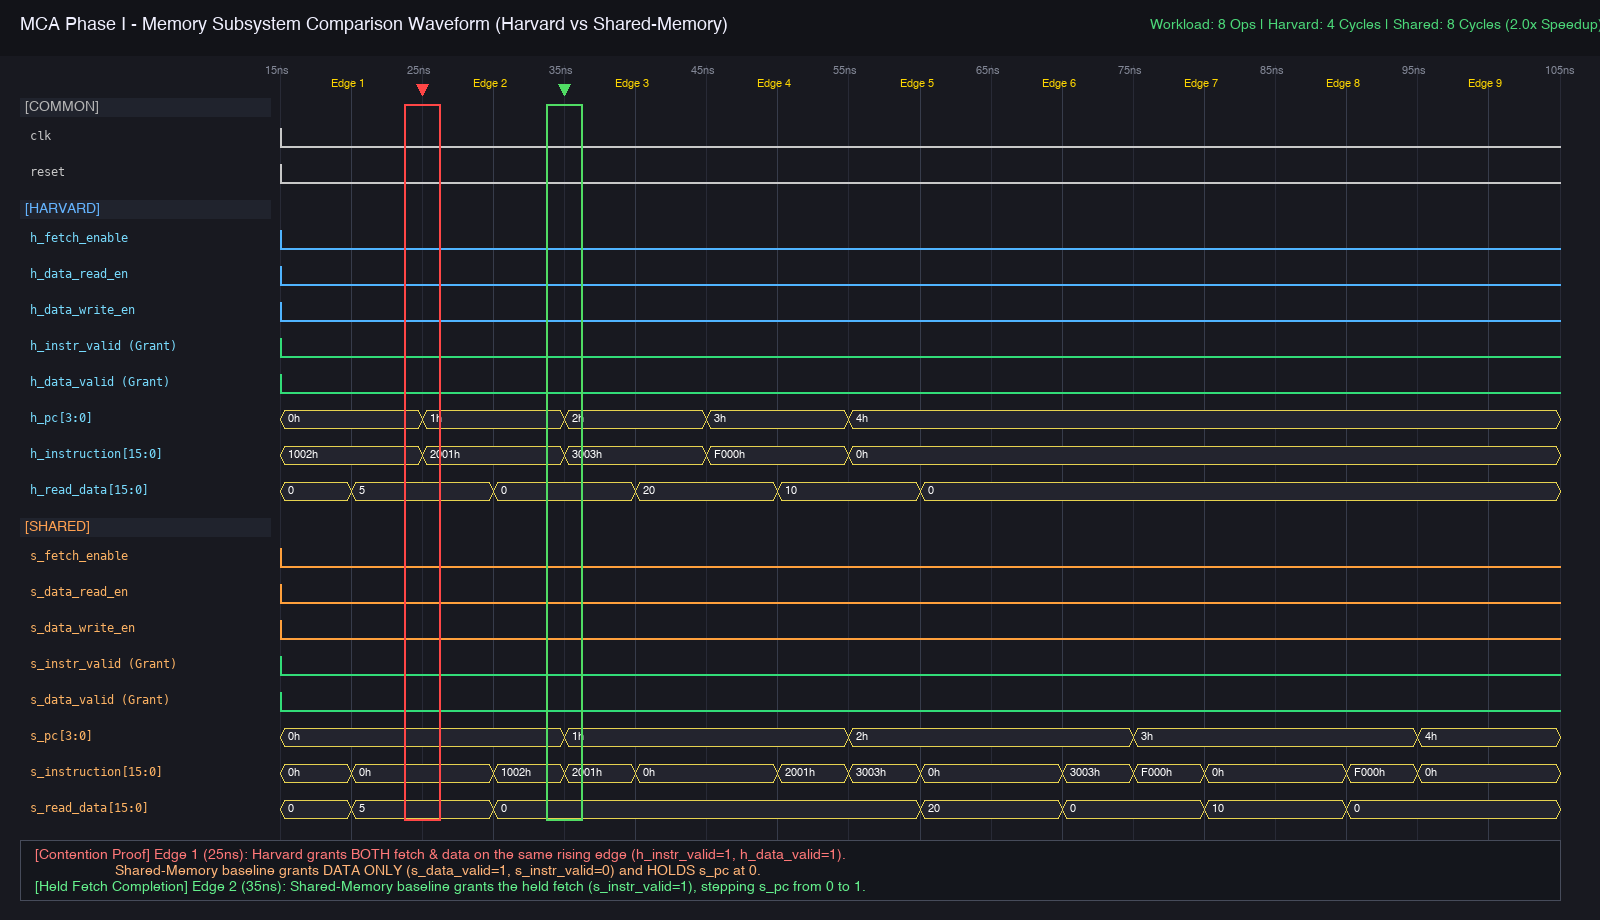
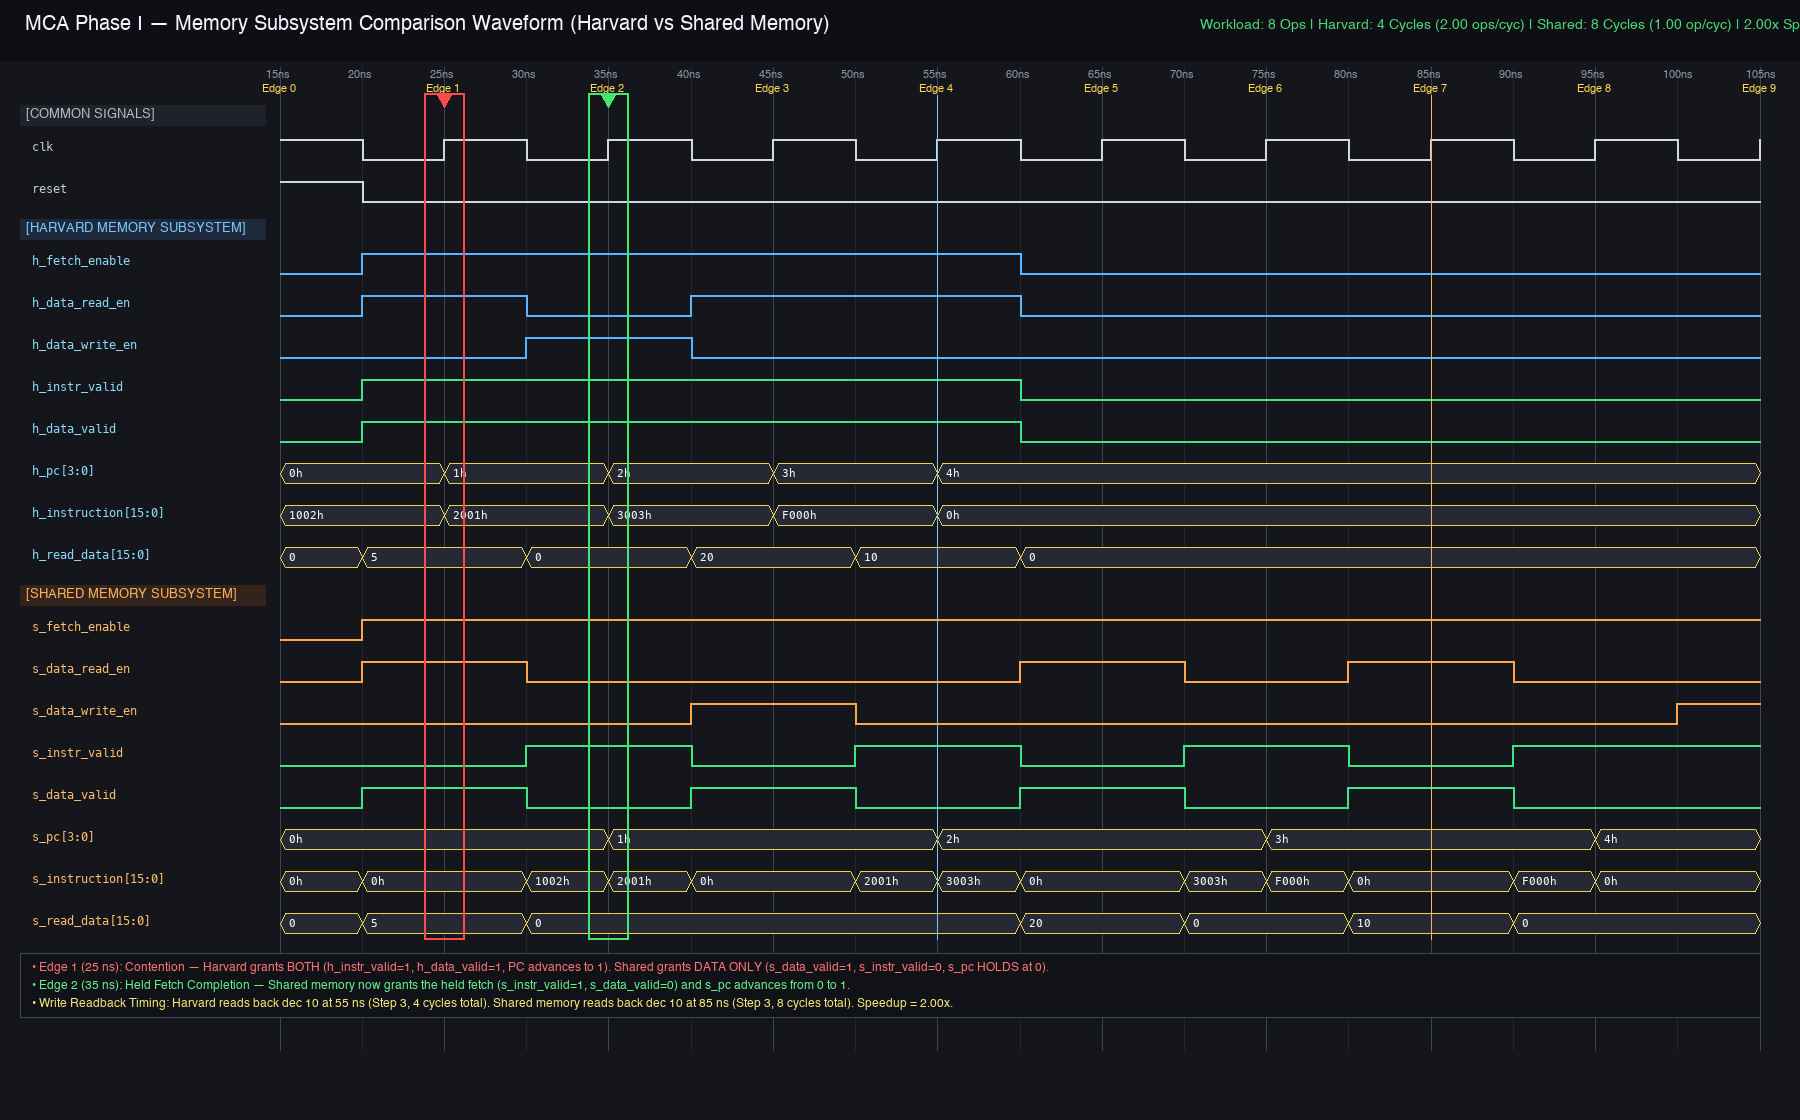
Refresh comparison waveform and complete synthesis results

diff --git a/docs/comparison.md b/docs/comparison.md
@@ -2,15 +2,15 @@
 
 ## 1. Overview and Architecture Comparison
 
-This report evaluates and compares the throughput and execution behavior of two memory subsystem architectures under an identical benchmark workload:
-1. **Harvard Subsystem (`harvard_top`):** Employs isolated instruction ROM (16×16) and data RAM (16×16) address spaces, buses, and ports. This permits simultaneous instruction fetching and data read/write operations on the exact same clock cycle.
+This report evaluates and compares the memory-access throughput and execution behavior of two memory subsystem architectures under an identical benchmark workload:
+1. **Harvard Subsystem (`harvard_top`):** Employs isolated instruction ROM (16×16) and data RAM (16×16) address spaces, buses, and ports. This permits simultaneous instruction fetching and data read/write operations on the exact same clock cycle without structural hazards.
 2. **Shared-Memory Baseline (`shared_memory`):** Implements a unified 32×16 memory array with a single physical read port and single write port. Physical words `0–15` map to instruction storage, while words `16–31` map to data storage. A central arbiter prioritizes legal data transactions over instruction fetches. When a data access is granted, the program counter holds and the instruction fetch remains pending until the next available cycle.
 
 ---
 
 ## 2. Benchmark Workload
 
-Both designs are subjected to the standardized 4-step sequence from the Phase I interface specification:
+Both designs are subjected to the standardized 4-pair request sequence from the Phase I interface specification:
 
 | Step / Row | Fetch PC | ROM Instruction | Data Operation | Data Address | Write Data | Expected Read Data |
 | :---: | :---: | :---: | :---: | :---: | :---: | :---: |
@@ -21,13 +21,17 @@ Both designs are subjected to the standardized 4-step sequence from the Phase I 
 
 ---
 
-## 3. Measured Cycle Counts and Throughput
+## 3. Measured Cycle Counts and Memory-Access Throughput
 
 The testbench (`testbench/tb_comparison.v`) drives both devices under test (DUTs) independently with separate row counters and request pending flags. Cycles are counted strictly from the first active request rising edge to the final grant edge, excluding reset and test initialization.
 
-### Verified Simulation Results
+### Verified Simulation Results (`make -B test-comparison`)
 
 ```text
+mkdir -p build
+iverilog -g2005 -Wall -s tb_comparison -o build/tb_comparison rtl/program_counter.v rtl/instruction_memory.v rtl/data_path.v rtl/address_decoder.v rtl/read_write_control.v rtl/data_memory.v rtl/harvard_top.v rtl/shared_memory.v testbench/tb_comparison.v
+vvp build/tb_comparison
+VCD info: dumpfile build/comparison.vcd opened for output.
 ------------------------------------------------------------
 Workload Complete
 Harvard DUT:       Cycles = 4, Grants = 8, Ops/Cycle = 2.00
@@ -37,15 +41,15 @@ Speedup Ratio:     2.00x
 PASS: All comparison checks and corner-case tests passed successfully!
 ```
 
-### Quantitative Metrics Table
+### Quantitative Metrics for the Four-Pair Workload
 
 | Metric | Harvard Subsystem | Shared-Memory Baseline | Architectural Advantage |
 | :--- | :---: | :---: | :---: |
 | **Total Accepted Operations** | 8 (4 fetch + 4 data) | 8 (4 fetch + 4 data) | Identical Workload |
 | **Elapsed Execution Cycles** | **4 cycles** | **8 cycles** | 50% fewer cycles |
-| **Throughput (Operations / Cycle)** | **2.00 ops/cycle** | **1.00 op/cycle** | 2.00× higher throughput |
-| **Speedup Ratio** | **2.00×** | **1.00×** | **2.00× speedup** |
-| **Arbitration Stalls** | 0 stalls | 4 stalls (1 stall per row) | Zero structural hazard |
+| **Memory-Access Throughput** | **2.00 ops/cycle** | **1.00 op/cycle** | **2.00× higher throughput** |
+| **Throughput Speedup Ratio** | **2.00×** | **1.00×** | **2.00× speedup** |
+| **Arbitration Stalls** | 0 stalls | 4 stalls (1 stall per pair) | Zero structural hazard |
 
 ---
 
@@ -57,29 +61,28 @@ The verified comparison waveform is committed at [docs/comparison-waveform.png](
 
 ### Key Clock Edges Identified in the Waveform:
 
-1. **Edge 1 ($t = 25\,\text{ns}$ — Contested Request Edge):**
-   - **Harvard Subsystem:** Both `h_instruction_valid` (fetch grant) and `h_data_valid` (data grant) are asserted simultaneously at the rising clock edge. Instruction `1002h` is fetched while RAM word 2 returns decimal `5`. The Program Counter increments from `0` to `1` on this edge.
-   - **Shared-Memory Baseline:** Structural contention occurs at the single shared port. The arbiter gives strict priority to the legal data read. Consequently:
-     - `s_data_valid = 1`, returning decimal `5`.
-     - `s_instruction_valid = 0`, suppressing the instruction fetch grant.
-     - `s_pc` strictly **holds at 0** across the clock edge (`s_fetch_pending` remains high).
+1. **Edge 1 ($t = 25\,\text{ns}$ — Contested Request Rising Edge):**
+   - **Harvard Subsystem:** Both `h_instruction_valid = 1` and `h_data_valid = 1` are settled high before the rising edge. Instruction `1002h` is fetched combinationally while RAM word 2 returns decimal `5`. At the $25\,\text{ns}$ rising edge, both transactions commit, and `h_pc` advances from `0` to `1`.
+   - **Shared-Memory Baseline:** Structural contention occurs at the single shared port. The arbiter gives strict priority to the legal data read:
+     - Just before the rising edge: `s_data_valid = 1` (returning decimal `5`), and `s_instruction_valid = 0` (fetch suppressed).
+     - At the $25\,\text{ns}$ rising edge: Data read commits, while the pending fetch remains held. Consequently, `s_pc` strictly **holds at 0** across the clock edge.
 
-2. **Edge 2 ($t = 35\,\text{ns}$ — Held Fetch Completion Edge):**
+2. **Edge 2 ($t = 35\,\text{ns}$ — Held Fetch Completion Rising Edge):**
    - **Shared-Memory Baseline:** Having completed the data operation on the preceding cycle, `s_data_read_enable` is deasserted. The single shared port is now allocated to the pending instruction fetch:
-     - `s_instruction_valid = 1`, returning instruction `1002h`.
-     - `s_data_valid = 0`.
-     - `s_pc` successfully **advances from 0 to 1** at the rising edge.
-   - This exact 2-cycle cadence repeats across all 4 steps, resulting in exactly $4 \times 2 = 8$ cycles for the baseline vs. 4 cycles for the Harvard subsystem.
+     - Just before the rising edge: `s_instruction_valid = 1` (returning instruction `1002h`), and `s_data_valid = 0`.
+     - At the $35\,\text{ns}$ rising edge: The pending fetch commits, and `s_pc` successfully **advances from 0 to 1**.
+   - This exact 2-cycle cadence repeats across all 4 request pairs, resulting in exactly $4 \times 2 = 8$ cycles for the baseline vs. 4 cycles for the Harvard subsystem.
 
-3. **Readback Verification at Step 3 ($t = 85\,\text{ns}$):**
-   - Step 1 committed a write of decimal `10` to data word 3.
-   - At Step 3 (Edge 7 for shared memory, Edge 4 for Harvard), the data read of word 3 settles to decimal `10`, confirming proper data persistence and integrity.
+3. **Write Readback Timing:**
+   - In Step 1, a write of decimal `10` is committed to data word 3.
+   - **Harvard Subsystem:** Reads back decimal `10` at **$t = 55\,\text{ns}$** (during Step 3, Cycle 4) while simultaneously fetching instruction `F000h` at PC `3`.
+   - **Shared-Memory Baseline:** Reads back decimal `10` at **$t = 85\,\text{ns}$** (during Step 3, Cycle 7) while the fetch of `F000h` is held, completing the final held fetch on the subsequent cycle at **$t = 95\,\text{ns}$** (Cycle 8).
 
 ---
 
 ## 5. Verification of Arbitration & Robustness
 
-Following the benchmark run, `tb_comparison.v` validates two critical corner cases to ensure invalid operations cannot degrade throughput or corrupt memory:
+Following the measured benchmark run, `tb_comparison.v` validates two critical corner cases to ensure invalid operations cannot degrade throughput or corrupt memory:
 1. **Invalid Data Address (e.g., Address 17, bit 4 asserted):**
    - The decoder flags address 17 as out-of-range (`s_data_valid = 0`).
    - The arbiter ensures the invalid data request **does not consume the shared memory slot**, allowing the concurrent instruction fetch to proceed unimpeded (`s_instruction_valid = 1`).
@@ -95,10 +98,21 @@ Following the benchmark run, `tb_comparison.v` validates two critical corner cas
 To re-run the simulation and regenerate the waveform:
 ```sh
 # 1. Compile and execute comparison testbench
-make test-comparison
+make -B test-comparison
 
-# 2. View generated VCD in Surfer or GTKWave
+# 2. Open generated VCD in Surfer or GTKWave
 surfer build/comparison.vcd
 # or
 gtkwave build/comparison.vcd
 ```
+
+### Manual Capture Steps in GTKWave / Surfer:
+1. Open `build/comparison.vcd` in your waveform viewer.
+2. In the signal hierarchy under `tb_comparison`, add:
+   - `clk`, `reset`
+   - Harvard group: `h_fetch_enable`, `h_data_read_enable`, `h_data_write_enable`, `h_instruction_valid`, `h_data_valid`, `h_pc[3:0]`, `h_instruction[15:0]`, `h_read_data[15:0]`
+   - Shared group: `s_fetch_enable`, `s_data_read_enable`, `s_data_write_enable`, `s_instruction_valid`, `s_data_valid`, `s_pc[3:0]`, `s_instruction[15:0]`, `s_read_data[15:0]`
+3. Zoom to the time interval $15\,\text{ns}$ to $105\,\text{ns}$.
+4. Ensure values are displayed in Hex for instructions/PC and Decimal for read data.
+5. Highlight the rising edges at $25\,\text{ns}$ (contention) and $35\,\text{ns}$ (held fetch completion).
+6. Capture the screen and save to `docs/comparison-waveform.png`.

diff --git a/synthesis/results.md b/synthesis/results.md
@@ -2,9 +2,9 @@
 
 ## Tool Environment
 
-- **Synthesis Tool:** Yosys Open SYnthesis Suite (Version 0.70+post, AppleClang `clang++ 21.0.0.21000334`)
+- **Synthesis Tool:** Yosys Open SYnthesis Suite (Version `0.70+post`, commit `0c11ea098be065e585a90a06e7b7da49936cf231`, AppleClang `clang++ 21.0.0.21000334`)
 - **Simulation Tool:** Icarus Verilog (`iverilog` version 12.0) / `vvp`
-- **Target Technology:** Generic standard cell gate-level representation (`synth -top <top_module>`)
+- **Target Technology:** Generic standard cell gate-level representation (`synth -top <top_module>; stat`)
 - **Platform:** macOS (Darwin arm64, Apple Silicon)
 
 ---
@@ -16,50 +16,70 @@
 yosys -p 'read_verilog rtl/program_counter.v rtl/shared_memory.v; synth -top shared_memory; stat'
 ```
 
-### 2. Harvard Top-Level (`harvard_top`)
-*(Note: Complete synthesis of `harvard_top` depends on Member 2's `data_path.v` and submodules merging into `main`)*
+### 2. Harvard Subsystem (`harvard_top`)
 ```sh
 yosys -p 'read_verilog rtl/program_counter.v rtl/instruction_memory.v rtl/address_decoder.v rtl/read_write_control.v rtl/data_memory.v rtl/data_path.v rtl/harvard_top.v; synth -top harvard_top; stat'
 ```
 
 ---
 
-## Resource Utilization Summary
+## Resource Utilization Comparison (Generic Yosys Cell Counts)
 
-### Shared-Memory Baseline (`shared_memory`)
+The table below presents the **hierarchy-inclusive cell totals** for both architectures synthesized under identical settings with Yosys:
 
-| Cell Type | Function / Description | Cell Count |
-| :--- | :--- | :--- |
-| `$_DFFE_PP_` | D-Type Flip-Flop with Enable (Unified 32×16 RAM array) | 512 |
-| `$_SDFFE_PP0P_` | Synchronous Reset DFF with Enable (4-bit Program Counter) | 4 |
-| **Total Sequential (DFFs)** | | **516** |
-| `$_MUX_` | Multiplexers (Address decoding & single read port selection) | 452 |
-| `$_AND_` | 2-input AND gates | 121 |
-| `$_OR_` | 2-input OR gates | 48 |
-| `$_ANDNOT_` | AND with inverted input | 34 |
-| `$_NAND_` | 2-input NAND gates | 33 |
-| `$_NOT_` | Inverters | 7 |
-| `$_XOR_` | 2-input XOR gates | 3 |
-| `$_NOR_` | 2-input NOR gates | 2 |
-| `$_XNOR_` | 2-input XNOR gates | 1 |
-| **Total Combinational Logic** | | **701** |
-| **Total Cell Count** | | **1,217** |
-
-#### Hierarchy Breakdown:
-- **`shared_memory` (Local Count):** 1,207 cells (512 DFFs for RAM array, 452 MUXes, 243 logic gates)
-- **`program_counter` (Submodule):** 10 cells (4 SDFFEs for 4-bit PC, 6 logic gates for increment and reset)
-
-### Harvard Subsystem (`harvard_top`)
-- **Status:** Pending integration of Member 2 (`feature/data-path`).
-- Expected resources:
-  - 16×16 Data RAM: ~256 DFFs
-  - 16×16 Instruction ROM: Combinational LUT ROM (~0 DFFs)
-  - 4-bit PC: 4 DFFs
-  - Dual independent address paths and dual read outputs without shared multiplexer contention.
+| Cell Type / Category | Description | Shared-Memory Baseline (`shared_memory`) | Harvard Subsystem (`harvard_top`) | Notes on Difference |
+| :--- | :--- | :---: | :---: | :--- |
+| `$_DFFE_PP_` | D-type Flip-Flop with Enable | 512 | 256 | Shared memory implements unified 32×16 RAM (512 FFs); Harvard has 16×16 RAM (256 FFs) |
+| `$_SDFFE_PP0P_` | Synchronous Reset DFF with Enable | 4 | 4 | 4-bit Program Counter (`program_counter`) |
+| **Total Sequential (DFFs)** | **Total Registers** | **516** | **260** | **Shared memory requires 2.0× more flip-flops** |
+| `$_MUX_` | Multiplexers | 452 | 241 | 32-word array read multiplexing vs 16-word RAM read multiplexing |
+| `$_AND_` | 2-input AND gates | 121 | 45 | Address decode, control qualification, write gating |
+| `$_OR_` / `$_ORNOT_` | OR gates | 48 | 2 | Request arbitration and qualification |
+| `$_ANDNOT_` | AND with inverted input | 34 | 9 | Priority suppression and gating |
+| `$_NAND_` | 2-input NAND gates | 33 | 5 | Combinational decoding |
+| `$_NOT_` | Inverters | 7 | 7 | Address bit inversion and logic inversion |
+| `$_XOR_` / `$_XNOR_` | XOR / XNOR gates | 4 | 3 | PC incrementer and control XOR |
+| `$_NOR_` | 2-input NOR gates | 2 | 1 | Logic gating |
+| **Total Combinational Cells** | **Logic & MUX Gates** | **701** | **313** | **Shared memory requires 2.24× more combinational gates** |
+| **Total Generic Cells** | **Overall Cell Count** | **1,217** | **573** | **Hierarchy-inclusive total** |
 
 ---
 
-## Timing and FPGA Implementation
+## Architectural Hierarchy Breakdown
 
-- **FPGA Target & Fmax:** Pending target FPGA device selection and place-and-route constraints. For Phase I, standard cell generic elaboration confirms zero design rule violations, clean synchronous reset behavior, and zero latch inferences.
-- **Synthesis Warnings:** None affecting design intent or functional behavior. All latch inferences were cleanly prevented through default combinational assignments.
+### 1. Shared-Memory Baseline (`shared_memory`) — 1,217 Total Cells
+- **`shared_memory` (Local Count):** 1,207 cells
+  - 512 `$_DFFE_PP_` (Unified 32×16 memory storage)
+  - 452 `$_MUX_` (Address decode and single shared read expression)
+  - 243 combinational gates (Priority arbiter, address range validation, grant gating)
+- **`program_counter` (Submodule):** 10 cells
+  - 4 `$_SDFFE_PP0P_` (4-bit program counter)
+  - 6 combinational gates (Increment and synchronous reset)
+
+### 2. Harvard Subsystem (`harvard_top`) — 573 Total Cells
+- **`harvard_top` (Local Count):** 1 cell
+  - 1 `$_ANDNOT_` (Fetch valid qualification: `instruction_valid = fetch_enable && !reset`)
+- **`data_path` Subsystem:** 552 cells
+  - **`address_decoder`:** 1 cell (1 `$_NOT_` for upper address bit validity check)
+  - **`read_write_control`:** 5 cells (3 `$_ANDNOT_`, 2 `$_AND_` for operation qualification)
+  - **`data_memory`:** 545 cells (256 `$_DFFE_PP_` for 16×16 RAM, 240 `$_MUX_`, 49 logic gates)
+  - **`data_path` top-level wiring:** 1 cell (1 `$_OR_` asserting `data_valid`)
+- **`instruction_memory` Submodule:** 10 cells
+  - 10 combinational LUT gates (Hardwired 16×16 instruction ROM; 0 flip-flops required)
+- **`program_counter` Submodule:** 10 cells
+  - 4 `$_SDFFE_PP0P_` (4-bit program counter)
+  - 6 combinational gates (Increment and synchronous reset)
+
+---
+
+## Synthesis Warnings and Quality Assessment
+
+- **Warnings:** Zero unexpected warnings. Both frontends cleanly elaborated Verilog-2005 constructs without syntax warnings.
+- **Latch Prevention:** Verified zero latch inferences across both designs (`CHECK pass: Found and reported 0 problems`). All switch rules were recognized as full-case decision trees.
+- **Clock Domains:** Both subsystems operate on a single synchronous clock domain (`clk`) with synchronous active-high resets (`reset`).
+
+---
+
+## FPGA Implementation and Timing Status
+
+- **Status:** Generic standard cell gate-level counts are recorded above. Target-specific FPGA device utilization (LUTs, BRAMs, DSP slices) and maximum operating frequency ($F_{\max}$) remain **pending** target FPGA hardware selection and vendor place-and-route constraints.
